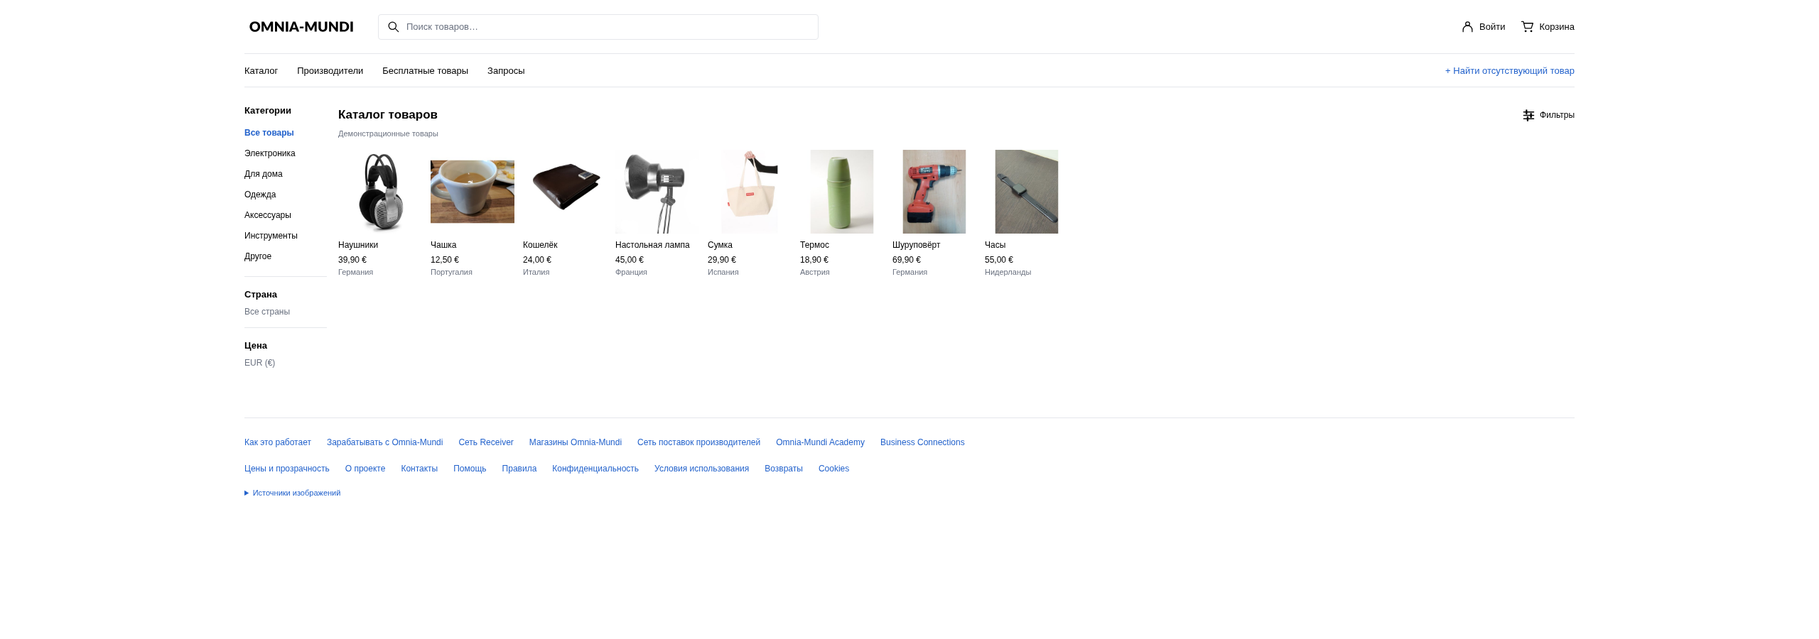
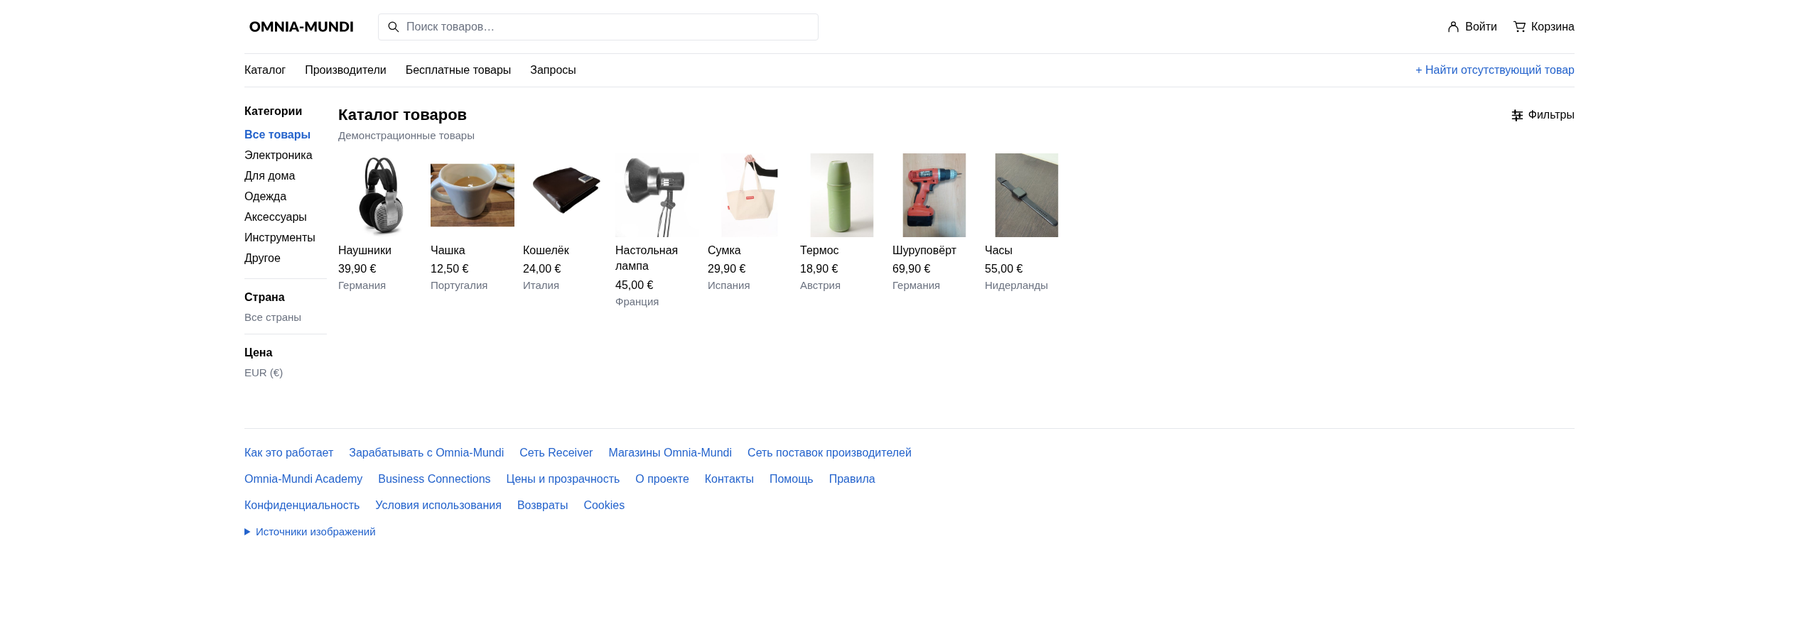
Increase homepage typography to 16px with responsive readability checks

diff --git a/style.css b/style.css
@@ -1,5 +1,5 @@
-:root{color-scheme:light;font-family:Arial,Helvetica,sans-serif;color:#000;background:#fff;font-size:13px}
-*{box-sizing:border-box}body{margin:0}button,input{font:inherit}button{cursor:pointer}button,a,input{ -webkit-tap-highlight-color:transparent}button{border:0;background:none;color:inherit;padding:0}a{color:#2463cc;text-decoration:none}a:hover,button:hover{text-decoration:underline}:focus-visible{outline:2px solid #2463cc;outline-offset:4px}svg{width:19px;height:19px;fill:none;stroke:currentColor;stroke-width:1.6;stroke-linecap:round;stroke-linejoin:round;flex-shrink:0}.page{padding:0 24px;max-width:1920px;margin:auto}.header{min-height:76px;display:flex;align-items:center;gap:28px;border-bottom:1px solid #e5e7eb}.logo-link{flex-shrink:0;display:flex}.logo-link img{width:160px;height:auto;display:block}.search{display:flex;align-items:center;gap:9px;border:1px solid #e5e7eb;border-radius:4px;min-height:36px;flex:1;max-width:620px;padding:0 11px;margin:0}.search input{width:100%;min-width:0;border:0;background:#fff;padding:9px 0;color:#000}.search input::placeholder{color:#6b7280;opacity:1}.account-actions{display:flex;gap:22px;margin-left:auto}.account-actions button{display:flex;align-items:center;gap:7px;min-height:36px;white-space:nowrap}.primary-nav{min-height:47px;display:flex;align-items:center;gap:27px;border-bottom:1px solid #e5e7eb;flex-wrap:wrap;padding:7px 0}.primary-nav a,.primary-nav button{color:#000;min-height:30px;display:flex;align-items:center;text-align:left}.primary-nav .request-link{margin-left:auto;color:#2463cc}.layout{display:grid;grid-template-columns:116px minmax(0,1fr);gap:16px;padding:25px 0 38px;min-height:436px;align-items:start}.filters section{border-bottom:1px solid #e5e7eb;padding:0 0 15px;margin-bottom:17px}.filters section:last-child{border:0}.filters h2{font-size:13px;font-weight:600;margin:0 0 10px}.filters p{font-size:12px;margin:0;color:#6b7280}#categories{display:grid;gap:2px}#categories button{display:block;width:100%;text-align:left;min-height:27px;font-size:12px}#categories [aria-pressed=true]{color:#2463cc;font-weight:600}.catalog{width:100%;max-width:100%;min-width:0}.catalog-heading{display:flex;align-items:center;justify-content:space-between;gap:12px}.catalog-heading h1{font-size:17px;font-weight:600;margin:0}.catalog-heading button{display:flex;align-items:center;gap:6px;font-size:12px;min-height:28px}.demo-label{color:#6b7280;font-size:11px;margin:6px 0 17px}.products{display:grid;grid-template-columns:repeat(auto-fill,118px);column-gap:12px;row-gap:23px}.products article{width:118px;min-width:0}.products img{width:118px;height:118px;aspect-ratio:1 / 1;object-fit:contain;display:block}.products h2{font-size:12px;font-weight:400;line-height:1.4;margin:8px 0 3px;overflow-wrap:anywhere}.products p{margin:0;line-height:1.5}.price{font-size:12px}.country{font-size:11px;color:#6b7280}.slider{stroke-width:3;paint-order:stroke;stroke:#000}.result-status{position:absolute;width:1px;height:1px;padding:0;margin:-1px;overflow:hidden;clip-path:inset(50%);white-space:nowrap}#empty{font-size:13px;line-height:1.5;max-width:360px}footer{border-top:1px solid #e5e7eb;padding:21px 0 28px}footer nav{display:flex;gap:12px 22px;flex-wrap:wrap;max-width:1060px}footer button{font-size:12px;color:#2463cc;text-align:left;min-height:25px}.skip-link{position:absolute;top:-60px;background:#fff;padding:12px;z-index:5}.skip-link:focus{top:0}dialog{border:1px solid #e5e7eb;border-radius:5px;padding:24px;max-width:calc(100% - 32px);font-size:14px}dialog::backdrop{background:#0004}dialog p{margin:0 0 18px}dialog button{color:#2463cc;min-height:32px} [hidden]{display:none!important}
+:root{color-scheme:light;font-family:Arial,Helvetica,sans-serif;color:#000;background:#fff;font-size:16px}
+*{box-sizing:border-box}body{margin:0}button,input{font:inherit}button{cursor:pointer}button,a,input{ -webkit-tap-highlight-color:transparent}button{border:0;background:none;color:inherit;padding:0}a{color:#2463cc;text-decoration:none}a:hover,button:hover{text-decoration:underline}:focus-visible{outline:2px solid #2463cc;outline-offset:4px}svg{width:19px;height:19px;fill:none;stroke:currentColor;stroke-width:1.6;stroke-linecap:round;stroke-linejoin:round;flex-shrink:0}.page{padding:0 24px;max-width:1920px;margin:auto}.header{min-height:76px;display:flex;align-items:center;gap:28px;border-bottom:1px solid #e5e7eb}.logo-link{flex-shrink:0;display:flex}.logo-link img{width:160px;height:auto;display:block}.search{display:flex;align-items:center;gap:9px;border:1px solid #e5e7eb;border-radius:4px;min-height:36px;flex:1;max-width:620px;padding:0 11px;margin:0}.search input{width:100%;min-width:0;border:0;background:#fff;padding:9px 0;color:#000}.search input::placeholder{color:#6b7280;opacity:1}.account-actions{display:flex;gap:22px;margin-left:auto}.account-actions button{display:flex;align-items:center;gap:7px;min-height:36px;white-space:nowrap}.primary-nav{min-height:47px;display:flex;align-items:center;gap:27px;border-bottom:1px solid #e5e7eb;flex-wrap:wrap;padding:7px 0}.primary-nav a,.primary-nav button{color:#000;min-height:30px;display:flex;align-items:center;text-align:left}.primary-nav .request-link{margin-left:auto;color:#2463cc}.layout{display:grid;grid-template-columns:116px minmax(0,1fr);gap:16px;padding:25px 0 38px;min-height:436px;align-items:start}.filters section{border-bottom:1px solid #e5e7eb;padding:0 0 15px;margin-bottom:17px}.filters section:last-child{border:0}.filters h2{font-size:16px;font-weight:600;margin:0 0 10px}.filters p{font-size:15px;margin:0;color:#6b7280}#categories{display:grid;gap:2px}#categories button{display:block;width:100%;text-align:left;min-height:27px;font-size:16px}#categories [aria-pressed=true]{color:#2463cc;font-weight:600}.catalog{width:100%;max-width:100%;min-width:0}.catalog-heading{display:flex;align-items:center;justify-content:space-between;gap:12px}.catalog-heading h1{font-size:22px;font-weight:600;margin:0}.catalog-heading button{display:flex;align-items:center;gap:6px;font-size:16px;min-height:28px}.demo-label{color:#6b7280;font-size:15px;margin:6px 0 17px}.products{display:grid;grid-template-columns:repeat(auto-fill,118px);column-gap:12px;row-gap:23px}.products article{width:118px;min-width:0}.products img{width:118px;height:118px;aspect-ratio:1 / 1;object-fit:contain;display:block}.products h2{font-size:16px;font-weight:400;line-height:1.4;margin:8px 0 3px;overflow-wrap:anywhere}.products p{margin:0;line-height:1.5}.price{font-size:16px}.country{font-size:15px;color:#6b7280}.slider{stroke-width:3;paint-order:stroke;stroke:#000}.result-status{position:absolute;width:1px;height:1px;padding:0;margin:-1px;overflow:hidden;clip-path:inset(50%);white-space:nowrap}#empty{font-size:16px;line-height:1.5;max-width:360px}footer{border-top:1px solid #e5e7eb;padding:21px 0 28px}footer nav{display:flex;gap:12px 22px;flex-wrap:wrap;max-width:1060px}footer button{font-size:16px;color:#2463cc;text-align:left;min-height:25px}.skip-link{position:absolute;top:-60px;background:#fff;padding:12px;z-index:5}.skip-link:focus{top:0}dialog{border:1px solid #e5e7eb;border-radius:5px;padding:24px;max-width:calc(100% - 32px);font-size:16px}dialog::backdrop{background:#0004}dialog p{margin:0 0 18px}dialog button{color:#2463cc;min-height:32px} [hidden]{display:none!important}
 @media(max-width:767px){.page{padding:0 16px}.header{gap:16px;flex-wrap:wrap;padding:14px 0}.account-actions{gap:14px}.search{order:3;flex-basis:100%;max-width:none}.primary-nav{gap:4px 20px;padding:8px 0}.primary-nav .request-link{margin-left:0;flex-basis:100%}.layout{padding-top:19px}}
-@media(max-width:639px){.page{padding:0 16px}.layout{display:flex;flex-direction:column;gap:16px;min-height:0;padding-bottom:30px}.catalog{width:100%}.catalog-heading{max-width:100%}.products{column-gap:12px;row-gap:22px}.filters{width:100%;order:0;border-bottom:1px solid #e5e7eb;padding-bottom:8px}.catalog{order:1}#categories{grid-template-columns:repeat(2,minmax(0,1fr));gap:2px 12px}.filters section{margin-bottom:12px;padding-bottom:10px}.catalog-heading h1{font-size:16px}.logo-link img{width:150px}.account-actions button{font-size:12px;gap:4px}.account-actions{gap:12px}.header{gap:10px}.demo-label{margin-bottom:15px}footer nav{gap:5px 18px}footer{padding-top:16px}}
-.image-sources{margin-top:16px;font-size:11px;color:#6b7280;max-width:1060px}.image-sources summary{cursor:pointer;color:#2463cc;min-height:25px;display:list-item;width:fit-content}.image-sources p{line-height:1.6}.image-sources ul{padding-left:18px;line-height:1.65}.image-sources li{margin:8px 0;overflow-wrap:anywhere}
+@media(max-width:639px){.page{padding:0 16px}.layout{display:flex;flex-direction:column;gap:16px;min-height:0;padding-bottom:30px}.catalog{width:100%}.catalog-heading{max-width:100%}.products{column-gap:12px;row-gap:22px}.filters{width:100%;order:0;border-bottom:1px solid #e5e7eb;padding-bottom:8px}.catalog{order:1}#categories{grid-template-columns:repeat(2,minmax(0,1fr));gap:2px 12px}.filters section{margin-bottom:12px;padding-bottom:10px}.catalog-heading h1{font-size:22px}.logo-link img{width:150px}.account-actions button{font-size:16px;gap:4px}.account-actions{gap:12px}.header{gap:10px}.demo-label{margin-bottom:15px}footer nav{gap:5px 18px}footer{padding-top:16px}}
+.image-sources{margin-top:16px;font-size:15px;color:#6b7280;max-width:1060px}.image-sources summary{cursor:pointer;color:#2463cc;min-height:25px;display:list-item;width:fit-content}.image-sources p{line-height:1.6}.image-sources ul{padding-left:18px;line-height:1.65}.image-sources li{margin:8px 0;overflow-wrap:anywhere}

diff --git a/tests/homepage.py b/tests/homepage.py
@@ -41,6 +41,42 @@ with sync_playwright() as p:
             if width in [320, 390, 430, 1440, 1920, 2560]:
                 Path('docs/screenshots').mkdir(parents=True, exist_ok=True)
                 page.screenshot(path=f'docs/screenshots/homepage-{width}.png', full_page=True)
+        # Verify every formerly small text group at every breakpoint, not only :root.
+        typography = {
+            '.primary-nav a': 16, '.primary-nav button': 16, '#search': 16,
+            '.account-actions button': 16, '#categories button': 16,
+            '.filters h2': 16, '.filters p': 15, '.products h2': 16,
+            '.price': 16, '.country': 15, '.demo-label': 15,
+            '.catalog-heading h1': 22, '#filter-toggle': 16,
+            'footer button': 16, '.image-sources': 15, 'dialog': 16,
+        }
+        for selector, expected in typography.items():
+            assert page.locator(selector).evaluate_all('(nodes,size)=>nodes.every(n=>parseFloat(getComputedStyle(n).fontSize)===size)', expected), (width, selector)
+        # Exercise expanded filters and credits at all widths, including narrow phones.
+        filters_were_hidden = page.locator('#filters').evaluate('(n)=>n.hidden')
+        page.locator('#filters').evaluate('(n)=>n.hidden=false')
+        page.locator('.image-sources').evaluate('(n)=>n.open=true')
+        assert page.evaluate('document.documentElement.scrollWidth <= innerWidth'), width
+        for selector in ['.header button', '.primary-nav a', '.primary-nav button', '#categories button', '.filters h2', '.filters p', '.products h2', '.products p', 'footer button', '.image-sources li']:
+            assert page.locator(selector).evaluate_all('(nodes)=>nodes.every(n=>n.scrollWidth<=n.clientWidth+1 && n.scrollHeight<=n.clientHeight+1)'), (width, selector)
+        page.locator('#filters').evaluate('(n,hidden)=>n.hidden=hidden', filters_were_hidden)
+        page.locator('.image-sources').evaluate('(n)=>n.open=false')
+        # The larger header controls must not overlap when they wrap on small screens.
+        header_boxes = page.locator('.header > *').evaluate_all('(nodes)=>nodes.map(n=>n.getBoundingClientRect().toJSON())')
+        for i, first in enumerate(header_boxes):
+            for second in header_boxes[i + 1:]:
+                overlap_x = min(first['right'], second['right']) - max(first['left'], second['left'])
+                overlap_y = min(first['bottom'], second['bottom']) - max(first['top'], second['top'])
+                assert overlap_x <= 1 or overlap_y <= 1, (width, first, second)
+        login = page.get_by_role('button', name='Войти', exact=True)
+        login.focus()
+        page.keyboard.press('Enter')
+        assert page.get_by_role('dialog').is_visible()
+        assert page.locator('#notice').evaluate('(n)=>n.scrollWidth<=n.clientWidth+1 && n.scrollHeight<=n.clientHeight+1')
+        assert page.evaluate('document.documentElement.scrollWidth <= innerWidth'), width
+        page.keyboard.press('Escape')
+        assert login.evaluate('(n)=>n===document.activeElement')
+        login.evaluate('(n)=>n.blur()')
         # Long translated names must wrap rather than clip or widen a column.
         title = page.locator('.products h2').first
         original = title.inner_text()
@@ -48,7 +84,7 @@ with sync_playwright() as p:
         assert title.evaluate('(title)=>title.scrollWidth<=title.clientWidth && title.scrollHeight<=title.clientHeight')
         assert page.evaluate('document.documentElement.scrollWidth <= innerWidth'), width
         title.evaluate('(title,text)=>title.textContent=text', original)
-        print(f'PASS layout {width}px: {columns} columns, long labels wrap')
+        print(f'PASS {width}px: {columns} columns, 16/15/22px fonts, no clipped text/overlap, expanded filters/credits, keyboard dialog')
     # More products must use more columns when space permits, without a hidden 8-column cap.
     page.locator('.products').evaluate('(grid)=>{for(let i=0;i<12;i++)grid.append(grid.firstElementChild.cloneNode(true));}')
     expanded = page.locator('.products img').evaluate_all('(imgs)=>imgs.map(i=>i.getBoundingClientRect().x)')
@@ -109,7 +145,7 @@ with sync_playwright() as p:
     assert not errors, errors
     assert not external_requests, external_requests
     # Immutable owner-provided inputs must match the base branch byte for byte.
-    for name in ['assets/omnia-mundi-logo.svg', 'Omnia-Mundi_Website_Technical_Specification_RU.txt', 'Omnia-Mundi_Codex_Homepage_Phase_1_RU.txt']:
+    for name in ['assets/omnia-mundi-logo.svg', 'Omnia-Mundi_Website_Technical_Specification_RU.txt', 'Omnia-Mundi_Codex_Homepage_Phase_1_RU.txt', 'index.html', 'app.js', 'strings.ru.js', 'ASSETS.md', 'assets/products/sources.json']:
         assert Path(name).read_bytes() == subprocess.check_output(['git', 'show', f'origin/main:{name}'])
     print('PASS eight attributed local assets, hashes, wallet ShareAlike notice, no external requests or JS errors, unchanged logo and TXT')
     browser.close()

diff --git a/docs/validation-issue-4.md b/docs/validation-issue-4.md
@@ -1,0 +1,51 @@
+# Issue #4 — читаемая типографика
+
+Ветка `feat/readable-typography-16px` создана от актуальной `origin/main` (`9ccd4e3`), после слияния владельцем предыдущего PR. PR #3 не изменяется. Основание: [Issue #4](https://github.com/homoprovincialis/Omnia-Mundi/issues/4).
+
+## Изменение
+
+В пользовательском коде изменены только значения `font-size` в `style.css`:
+
+| Группа | Размер |
+| --- | --- |
+| Основной текст, навигация, категории, названия, цены, поиск, текстовые кнопки, подвал, диалог | 16 CSS px |
+| Страна, пояснения фильтров, подпись демонстрационного каталога, атрибуция | 15 CSS px |
+| «Каталог товаров», включая телефон | 22 CSS px |
+| Заголовки фильтров | 16 CSS px |
+
+Мобильные переопределения также увеличены. Видимых шрифтов 11–12 px не осталось. Гарнитура, SVG, фото, структура HTML, JS и тексты не менялись. Изменять интервалы не потребовалось: существующие flex-wrap и переносы названий обеспечили адаптивность. Фотографии 118×118 px, автоматическое количество колонок и max-width:1920px сохранены.
+
+## Скриншоты до и после
+
+«До» — исходные скриншоты из main `9ccd4e3`; «после» — результат текущего теста, Chromium, viewport height 900 CSS px, device scale factor 1, полная высота страницы.
+
+| Ширина | До | После |
+| --- | --- | --- |
+| 390 px | [До](screenshots/typography-before/homepage-390.png) | [После](screenshots/homepage-390.png) |
+| 1440 px | [До](screenshots/typography-before/homepage-1440.png) | [После](screenshots/homepage-1440.png) |
+| 1920 px | [До](screenshots/typography-before/homepage-1920.png) | [После](screenshots/homepage-1920.png) |
+
+Дополнительные текущие скриншоты: [320](screenshots/homepage-320.png), [430](screenshots/homepage-430.png), [2560](screenshots/homepage-2560.png).
+
+## Проверки
+
+Запуск из корня репозитория: `python3 -m http.server 3010 --bind 127.0.0.1`, затем `python3 tests/homepage.py`.
+
+На каждой ширине 320, 375, 390, 430, 768, 1024, 1440, 1920, 2560 CSS px проверяются:
+
+- Фактические computed font-size всех групп текста, включая мобильные правила, подвал, атрибуцию и диалог.
+- Отсутствие горизонтального переполнения и обрезки текста в меню, карточках, категориях, раскрытой атрибуции и фильтрах.
+- Отсутствие наложения логотипа, поиска и действий шапки; перенос шапки на маленьком экране происходит естественно.
+- Открытие диалога клавишей Enter, закрытие Escape и возврат фокуса.
+- Перенос длинных русских/английских названий.
+- Размеры фото 118×118, автоматические колонки, ширина/центрирование контейнера.
+
+Также проверены поиск совместно с категориями, пустая выдача, мобильные фильтры, все будущие кнопки, доступные кредиты и лицензии, хеши фотографий, отсутствие внешних запросов и ошибок JavaScript. Служебные временные карточки в браузерном тесте подтверждают отсутствие скрытого максимума колонок.
+
+Сравнение с origin/main проверяет побайтную неизменность SVG, обоих TXT, index.html, app.js, strings.ru.js, ASSETS.md и манифеста изображений. `node --check app.js`, `node --check strings.ru.js`, `git diff --check` — дополнительные проверки.
+
+## Границы
+
+Только типографика существующей статической главной; будущие функции не добавлены. Локальный HTTP-сервер — средство проверки, не публикация. Никаких merge, auto-merge или deployment. Финальное визуальное утверждение ожидается от владельца.
+
+Кредиты и условия фотографий для скриншотов сохранены в [ASSETS.md](../ASSETS.md) и [README скриншотов](screenshots/README.md); включённая производная фотография кошелька Pixloom сохраняет CC BY-SA 4.0.

diff --git a/docs/screenshots/README.md b/docs/screenshots/README.md
@@ -14,3 +14,7 @@
 Включённая фотография кошелька: **Pixloom, «A men's wallet.jpg»**, [источник](https://commons.wikimedia.org/wiki/File:A_men%27s_wallet.jpg), [CC BY-SA 4.0](https://creativecommons.org/licenses/by-sa/4.0/). В миниатюре: уменьшение, белые поля, JPEG-оптимизация и удаление EXIF; без ретуши. Производная фотография сохраняет CC BY-SA 4.0, в том числе при включении в эти скриншоты. Остальные фотографии и условия перечислены в [ASSETS.md](../../ASSETS.md). Это не заявление о передаче прав на логотип проекта или о поддержке сайта правообладателями.
 
 После уточнения максимальной ширины скриншоты пересозданы: на 1920 px контейнер занимает всю ширину окна, на 2560 px ограничен 1920 px и центрирован. Остальные скриншоты не изменились побайтно.
+
+## Issue #4 — увеличение шрифтов
+
+Текущие скриншоты обновлены для размеров текста 16/15/22 CSS px. Исходные версии main сохранены в `typography-before/` (390, 1440 и 1920 px). [Сравнение и отчёт](../validation-issue-4.md). Изменены только размеры шрифтов; геометрия фото и алгоритм сетки сохранены.

diff --git a/README.md b/README.md
@@ -46,3 +46,7 @@ python3 tests/homepage.py
 Не сливать, не включать auto-merge и не публиковать без разрешения владельца. Переход к следующим этапам требует нового задания.
 
 Максимальная ширина контейнера страницы — 1920 CSS px; на более широких окнах сайт центрируется с сохранением прежних внутренних полей.
+
+## Issue #4 — типографика
+
+Основной текст теперь 16 CSS px, второстепенные подписи и атрибуция 15 px, заголовок каталога 22 px, включая мобильные стили. [Отчёт и сравнение «до/после»](docs/validation-issue-4.md). Браузерный тест проверяет фактические размеры текста, обрезку/переполнение, раскрытые фильтры и атрибуцию, шапку и клавиатурное управление на всех девяти ширинах.

diff --git a/docs/screenshots/typography-before/README.md b/docs/screenshots/typography-before/README.md
@@ -1,0 +1,5 @@
+# До увеличения шрифтов — Issue #4
+
+Эти три PNG побайтно скопированы из main `9ccd4e3` перед изменением CSS. Они предназначены для сравнения с текущими `../homepage-390.png`, `../homepage-1440.png` и `../homepage-1920.png`.
+
+Атрибуция включённых фотографий: [ASSETS.md](../../../ASSETS.md). Кошелёк: Pixloom, [A men's wallet.jpg](https://commons.wikimedia.org/wiki/File:A_men%27s_wallet.jpg), [CC BY-SA 4.0](https://creativecommons.org/licenses/by-sa/4.0/); производная фотография сохраняет эту лицензию. Обработка: уменьшение, белые поля, JPEG-оптимизация и удаление EXIF, без ретуши. Остальные кредиты — в ASSETS.md. Логотип и код сайта не перелицензируются.
